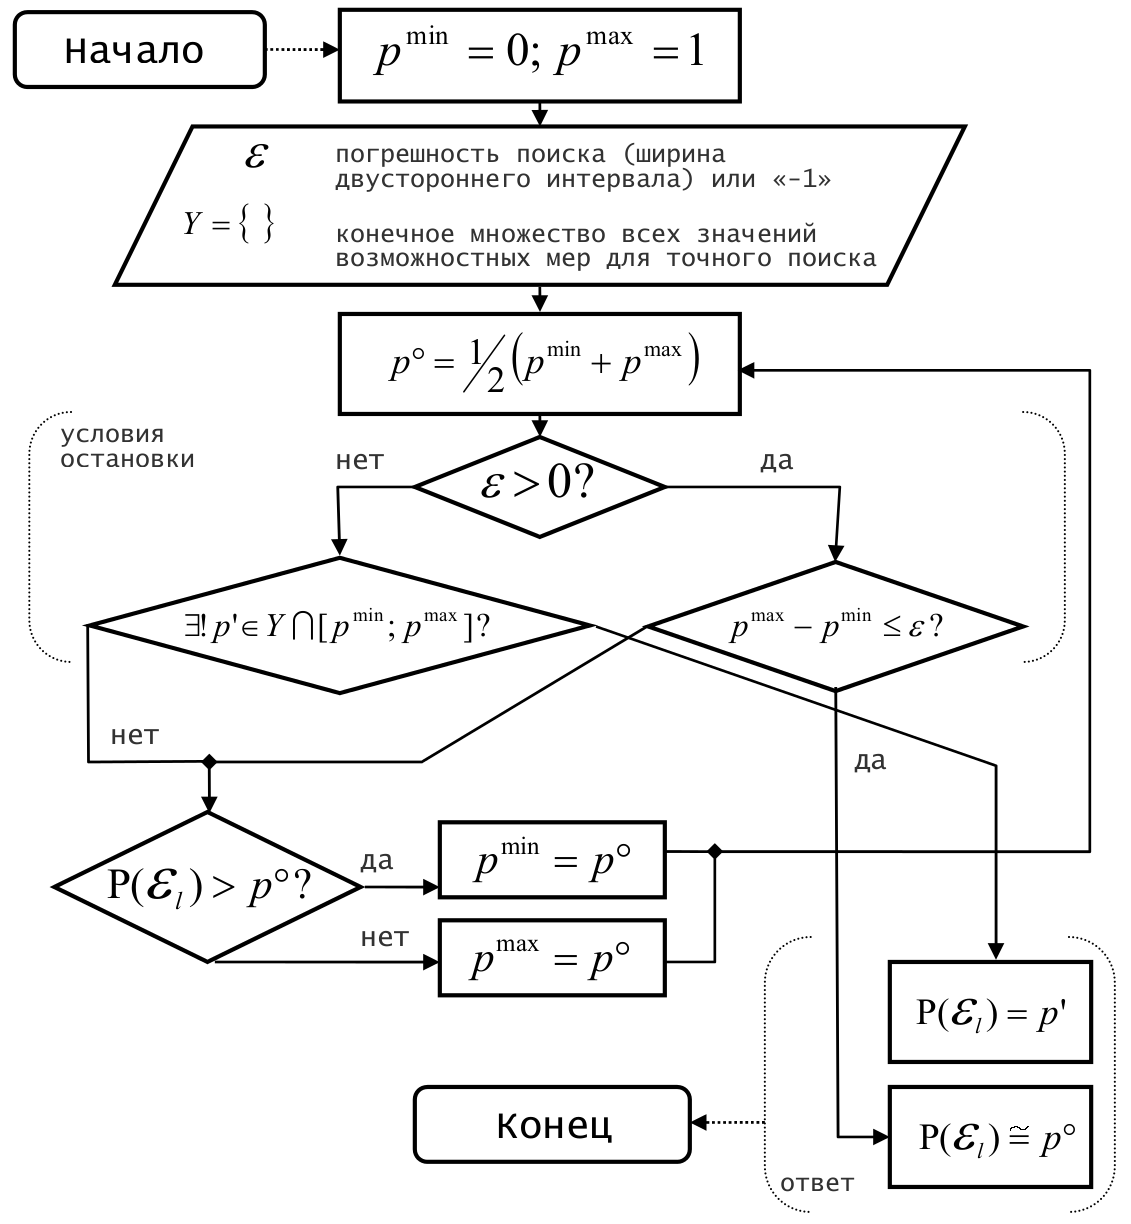
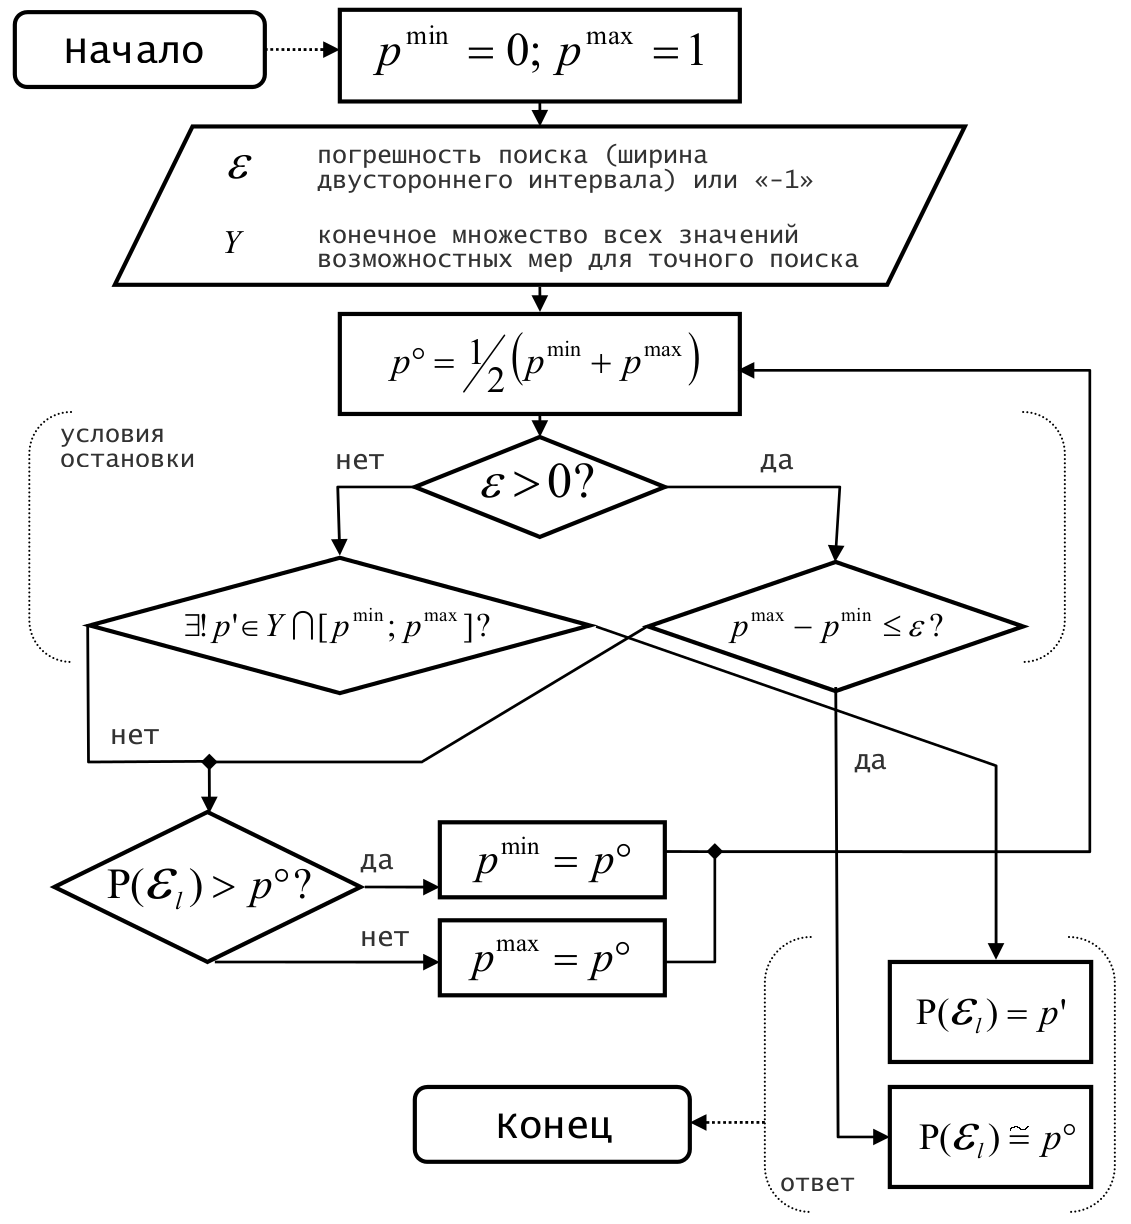
STABLE: Раздел 3 завершён, правки внесены.

diff --git a/diploma/algo.tex b/diploma/algo.tex
@@ -178,7 +178,7 @@
 
 Но, во-первых, при анализе совокупности результатов $p^{(N)}$ и $[p^{max(N)} - p^{min(N)}]$ для разных $l$ такие случаи часто хорошо видны. Во-вторых, во многих практически важных случаях область значений возможности дискретна, и можно получить не приближенное, а точное значение $\P(\Eps_l)$. 
 
-Пусть в качестве $X$ выбрано конечное множество, например, $X = \{0, 1, \ldots, x_{max}\}$. Тогда множество всех элементарных событий $\Omega$ конечно и имеет размер $\abs{\Omega}= \abs{T} = \abs{X}^{nm}$. Множество значений возможностей элементарных событий $Y = \{\p(\omega) \define= \P(\{\omega\})\mid\omega\in\Omega\}$ тоже конечно, имеет тот же размер и состоит из отдельных точек отрезка $\zo$. 
+Пусть в качестве $X$ выбрано конечное множество, например, $X = \{0, 1, \ldots, x_{max}\}$. Тогда множество всех элементарных событий $\Omega$ конечно, хотя имеет большой размер: $\abs{\Omega}= \abs{T} = \abs{X}^{nm}$. Множество значений возможностей элементарных событий $Y = \{\p(\omega) \define= \P(\{\omega\})\mid\omega\in\Omega\}$ тоже конечно, имеет тот же размер и состоит из отдельных точек отрезка $\zo$. 
 \begin{comment} 
 Возьмём 
 \begin{equation*}
@@ -190,9 +190,20 @@
 \end{comment}
 При достаточно большом $N$, на $N$-ой итерации метода дихотомии найдётся единственное число $\p(\omega)\in[p^{min(N)}, p^{max(N)}]$. Поскольку операции $\sup$ и $\inf$ над значениями возможности не выводят за пределы исходного множества чисел $\{\p(\omega) \mid\omega\in\Omega\}$, тем самым автоматически будет найдено значение $\P(\Eps_l) \in [p^{min(N)}, p^{max(N)}]$.  
 
-Можно показать, что в случае произвольного конечного множества верхняя асимптотическая оценка количество итераций дихотомии равна $\Om(\abs{X}^{nm})$.\todo{Эту проблему легко решить при конечном $Y$. Для этого надо просто распределить значения возможностей равномерно по отрезку $[0,1]$, то есть использовать вместо $Y$ более <<удобное>> множ. $Y'$. Между $Y$ и $Y'$ установлена биекция. Надо об этом написать.}\xspace Действительно, пусть на самом деле $\P(\Eps_l) = 0$, что вынуждает алгоритм каждую итерацию продолжать поиск на левой половине $[p^{min}, p^{max}]$, а множество $Y$ устроено так: на отрезке $[0.5;  1]$ лежит только одна точка из $Y$, на отрезке $[0.25;  0.5]$ --- ещё только одна точка, на отрезке $[0.125;  0.25]$ --- третья точка и т.\,д. Лишь на итерации $N = \abs{Y}$ в нужной половине $[p^{min}, p^{max}]$ останется только точка $0$. \todo{А вот это убрать, т.\;к. это очень нестрогие рассуждения.}Конечно, на практике такое встречается редко, и в среднем при равномерном распределении точек из $Y$ на отрезке $\zo$ \todo{Разъяснить, что $\to\infty$}\colorbox{green}{асимптотическая} сложность алгоритма  равна $\log_{2}{\abs{X}^{nm}} =  nm \log_{2}{x_{max}}$.
+Можно показать, что в наихудшем случае для произвольного $Y$ количество итераций дихотомии равно $\abs{Y}$. 
+Действительно, пусть на самом деле $\P(\Eps_l) = 0$, что вынуждает алгоритм каждую итерацию продолжать поиск на левой половине $[p^{min}, p^{max}]$, а множество $Y$ устроено так: на отрезке $[0.5;  1]$ лежит только одна точка из $Y$, на отрезке $[0.25;  0.5]$ --- ещё только одна точка, на отрезке $[0.125;  0.25]$ --- третья точка и т.\,д. Лишь на итерации $N = \abs{Y}$ в нужной половине $[p^{min}, p^{max}]$ останется только точка <<$0$>>. 
 
-Можно избежать этих проблем и ещё больше упростить ситуацию даже в случае произвольного $X$. Достаточно <<вручную>> вместо непрерывного множества значений возможности $\zo$ взять конечный набор, например, $Y = \{0.0, 0.1, \ldots, 1.0\}$. Операции $\sup$ и $\inf$ не выводят за пределы $Y$, поэтому $\P(\Eps_l) \in Y$, если исходный материал --- экспертные оценки $\p_{ij}(\cdot): X \rightarrow Y$ (что в определённом смысле удобно и для экспертов). В нашем примере $Y = \{0.0, 0.1, \ldots, 1.0\}$, поэтому уже при $N = 5 \Rightarrow 2^{-N} < 0.05$ можно $p^{(N)}$ однозначно отнести к $\P(\Eps_l) \in Y$.
+Но принцип относительности из теории возможностей позволяет изящно избежать эту ловушку. Содержательно интерпретируется только упорядоченность чисел $\p(\omega), \omega\in\Omega$. Поэтому возьмём множество $Y' = \{\p'(\omega) \define= \gamma(\p(\omega))\mid\omega\in\Omega\}$, где $\gamma(\cdot): \zo \to \zo$ выбирается согласно определению () таким образом, что возможности элементарных событий $p'$ уже распределены равномерно по отрезку~$\zo$ (с точностью до совпадающих точек --- равновозможных элементарных событий). Между $Y$ и $Y'$ установлена биекция. На вход алгоритма дихотомии подаётся $Y'$, поиск на котором отвечает наилучшему случаю дихотомии с количеством итераций, равном:
+\begin{equation*}
+  \label{e:}
+  [ \log_{2}{\abs{X}^{nm}} ] + 1 = nm[ \log_{2}{x_{max}} ] + 1,
+\end{equation*}
+ где квадратные скобки означают взятие целой части от выражения.
+ 
+%$\Theta(\log_{2}{\abs{X}^{nm}}) =  \log_{2}{x_{max}}\Theta(nm)$\footnote{Символы $\Theta(g(nm))$ обозначают асимптотически точную оценку. График зависимости количества итераций $N$ от размера $nm$ массива входных данных при $nm \to\infty$ лежит не ниже кривой $N = С_1g(nm)$ и не выше кривой $N = С_2g(nm)$, $C_1 < C_2$.}.  
+%\todo{Эту проблему легко решить при конечном $Y$. Для этого надо просто распределить значения возможностей равномерно по отрезку $[0,1]$, то есть использовать вместо $Y$ более <<удобное>> множ. $Y'$. Между $Y$ и $Y'$ установлена биекция. Надо об этом написать.}\xspace  \todo{А вот это убрать, т.\;к. это очень нестрогие рассуждения.}Конечно, на практике такое встречается редко, и в среднем при равномерном распределении точек из $Y$ на отрезке $\zo$ \todo{Разъяснить, что $\to\infty$}\colorbox{green}{асимптотическая} сложность алгоритма  равна $\log_{2}{\abs{X}^{nm}} =  nm \log_{2}{x_{max}}$.
+
+Можно ещё больше упростить ситуацию даже в случае произвольного $X$. Достаточно <<вручную>> вместо непрерывного множества значений возможности $\zo$ взять конечный набор, например, $Y = \{0.0, 0.1, \ldots, 1.0\}$. Операции $\sup$ и $\inf$ не выводят за пределы $Y$, поэтому $\P(\Eps_l) \in Y$, если исходный материал --- экспертные оценки $\p_{ij}(\cdot): X \rightarrow Y$ (что в определённом смысле удобно и для экспертов). В нашем примере $Y = \{0.0, 0.1, \ldots, 1.0\}$, поэтому уже при $N = 5 \Rightarrow 2^{-N} < 0.05$ можно $p^{(N)}$ однозначно отнести к $\P(\Eps_l) \in Y$.
 
 %$[p^{min(N_{\varepsilon})}, p^{max(N_{\varepsilon})}]$
 Итого, будем использовать следующую модификацию метода дихотомии (см. рисунок \ref{ris:algo_scheme}). Если пользователем задан параметр $\varepsilon > 0$, ищется приближённое значение $\P(\Eps_l)$, попадающее в отрезок $[p^{min}, p^{max}]$ шириной не более $\varepsilon$. Если задано отрицательное значение $\varepsilon$, пользователь должен указать конечное множество $Y$, на котором лежат значения всех возможностных мер, и алгоритм фиксирует момент, когда в отрезок $[p^{min}, p^{max}]$ попадает только один элемент $p' \in Y$. %Здесь номер итерации $i$ пробегает значения $1, \ldots, N_Y$, а если \todo{Это как?}\colorbox{green}{после достижения $N_Y$ ответ не найден, считается, что допущена ошибка в исходных данных}. 
@@ -202,7 +213,6 @@
 \caption{\small Принципиальная блок-схема применяемого алгоритма дихотомии. Некоторые незначительне действия,, например, расчёт максимального количество итераций и проверка на его достижение, здесь опущены. В зависимости от того, задано ли положительное значение $\varepsilon$ и множество всех значений возможностных мер $Y$, алгоритм может искать приближённое или точное значение $\P(\Eps_l)$. <<Сердцем>> алгоритма является проверка утверждения $\P(\Eps_l) > p$.}
 \label{ris:algo_scheme}
 \end{figure}
-\todo{Исправить $Y=\{\}$ (пустые скобки)}
 
 %Пусть на $N$-ой итерации дихотомии $p^{(N)} = p \in \zo$.
 Пусть $p \in \zo$. <<Сердцем>> алгоритма является проверка утверждения $\P(\Eps_l) > p$. Чтобы узнать, верно ли это утверждение, выполним следующие действия: 
@@ -250,13 +260,12 @@
 \label{ris:algo_sets}
 \end{figure}
 
-\subsection{Анализ корректности решения задачи выбора}
+%\subsection{Анализ корректности решения задачи выбора}
 \subsubsection*{Замечание 1}
-\todo{Очень странно, что подраздел состоит из одного только замечания. Для оформления замечаний лучше использовать окружение, что-нибудь типа $\backslash$begin\{notice\}\\\ldots\\$\backslash$end\{notice\}}
-
+\begin{notice}
 %Может возникнуть неоднозначность выбора $d_*$, связанная с наличием знаков равенства в цепочке (\ref{e:left_order}). 
-Пусть в цепочке (\ref{e:left_order}) $P_* = \P(\Eps_{l_k}) = ... = \P(\Eps_{l_q}) < \P(\Eps_{l_{q+1}})$, $q \geq k$. По построению минимум (\ref{e:zadacha}) достигается на любом решении $d' \subset \Delta \define= \{l_1, ..., l_q\}$, $\abs{d'} = k$, и такое $d'$ сводится к $d_*$ простой заменой индексов. Если $q > k$, следует считать, что решение задачи оптимального выбора объектов не единственное, и сообщить об этом заказчику экспертного опроса. ЛПР может или отказаться от выбора вовсе, например, потребовав дополнительную экспертизу, или выбрать любые $k$ объектов из $\Delta$, или даже отказаться от исходного требования задачи и вместо $k$ выбрать $r$ объектов из $\Delta$, где $k \leq r \leq q$.
-
+Пусть в цепочке (\ref{e:left_order}) $P_* = \P(\Eps_{l_k}) = ... = \P(\Eps_{l_q}) < \P(\Eps_{l_{q+1}})$, $q \geq k$. По построению минимум (\ref{e:zadacha}) достигается на любом решении $d' \subset \Delta \define= \{l_1, ..., l_q\}$, $\abs{d'} = k$, и такое $d'$ сводится к $d_*$ простой заменой индексов. Если $q > k$, следует считать, что решение задачи оптимального выбора объектов не единственное, и сообщить об этом заказчику экспертного опроса. Лицо, принимающее решение, может или отказаться от выбора вовсе, например, потребовав дополнительную экспертизу, или выбрать любые $k$ объектов из $\Delta$, или даже отказаться от исходного требования задачи и вместо $k$ выбрать $r$ объектов из $\Delta$, где $k \leq r \leq q$.
+\end{notice}
 \begin{comment}
 \subsubsection*{Замечание 2}
 

diff --git a/diploma/main.tex b/diploma/main.tex
@@ -23,7 +23,7 @@
 
 \section{Введение} 
 %(тут про смысл работы, актуальность. определение основных не математических терминов)
- \input{intro.tex}
+% \input{intro.tex}
 
 \section{Математические методы, используемые для моделирования и анализа экспертных оценок}
 %1(вводятся понятия субъективных суждений, экспертных оценок, приводятся требования к математическим моделям)%
